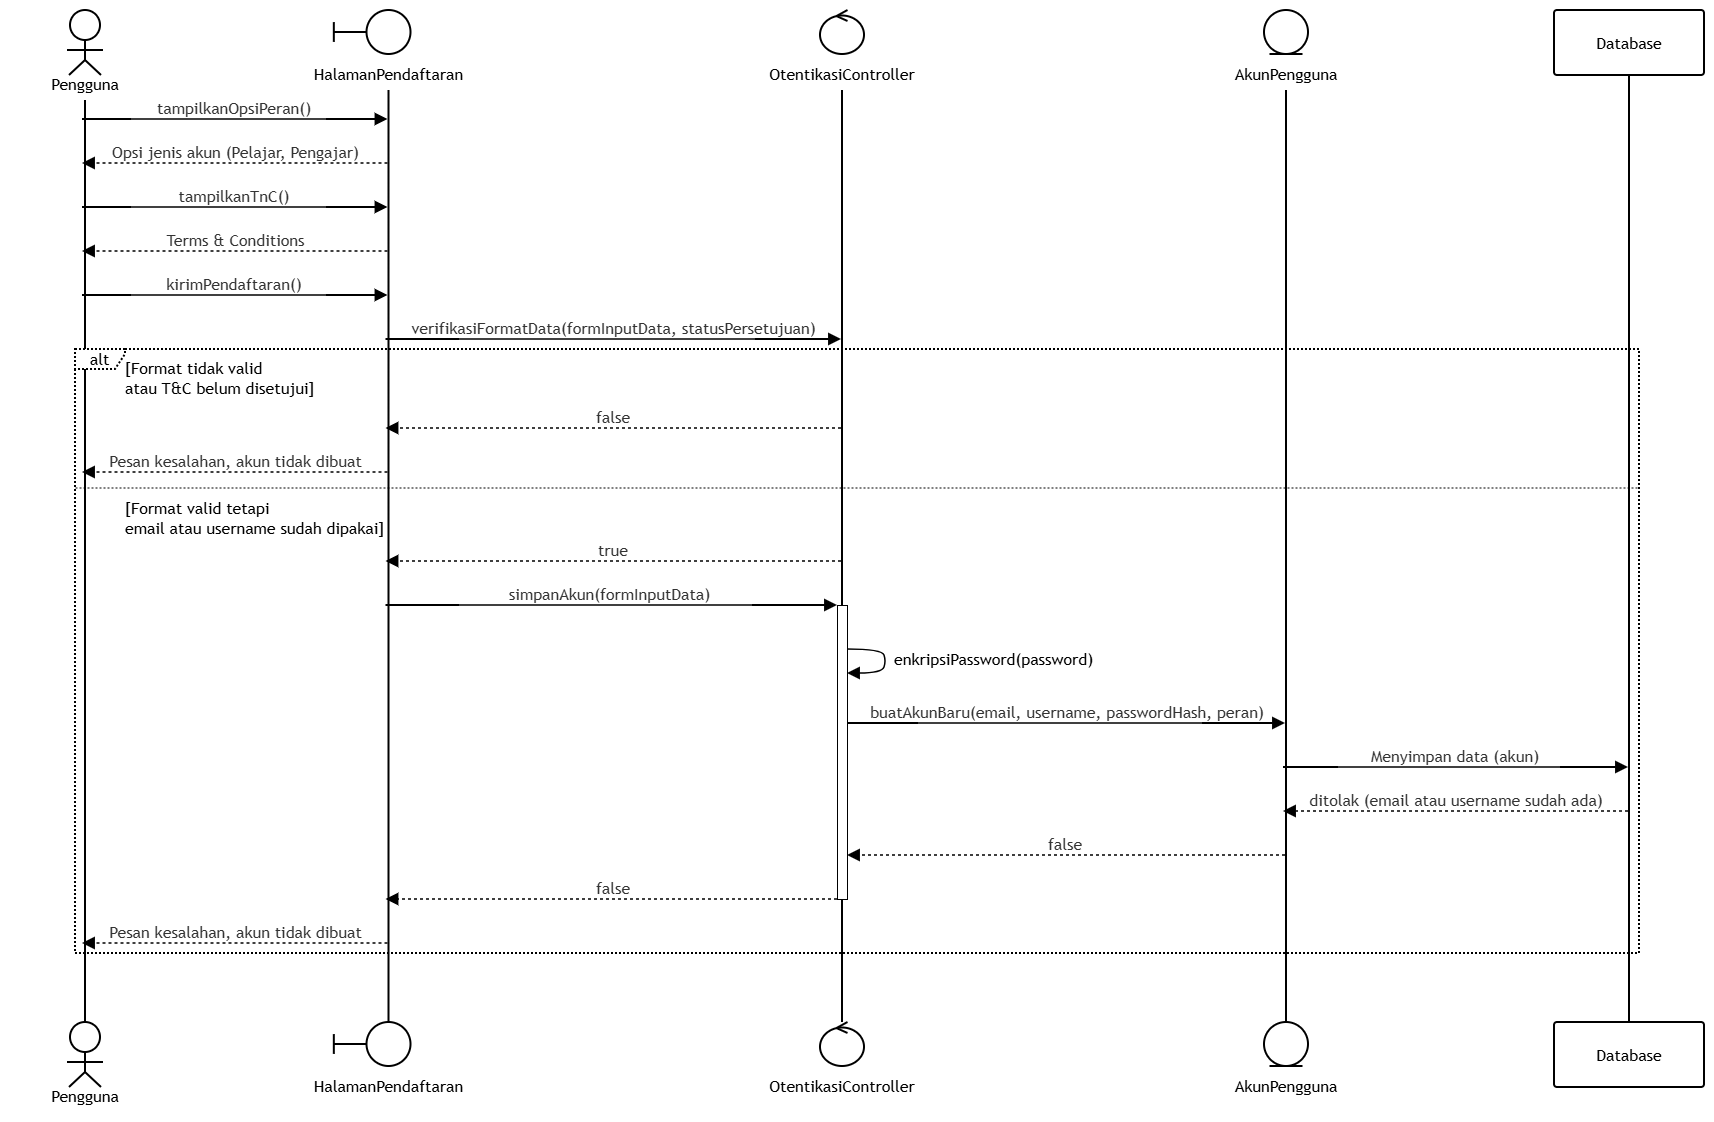
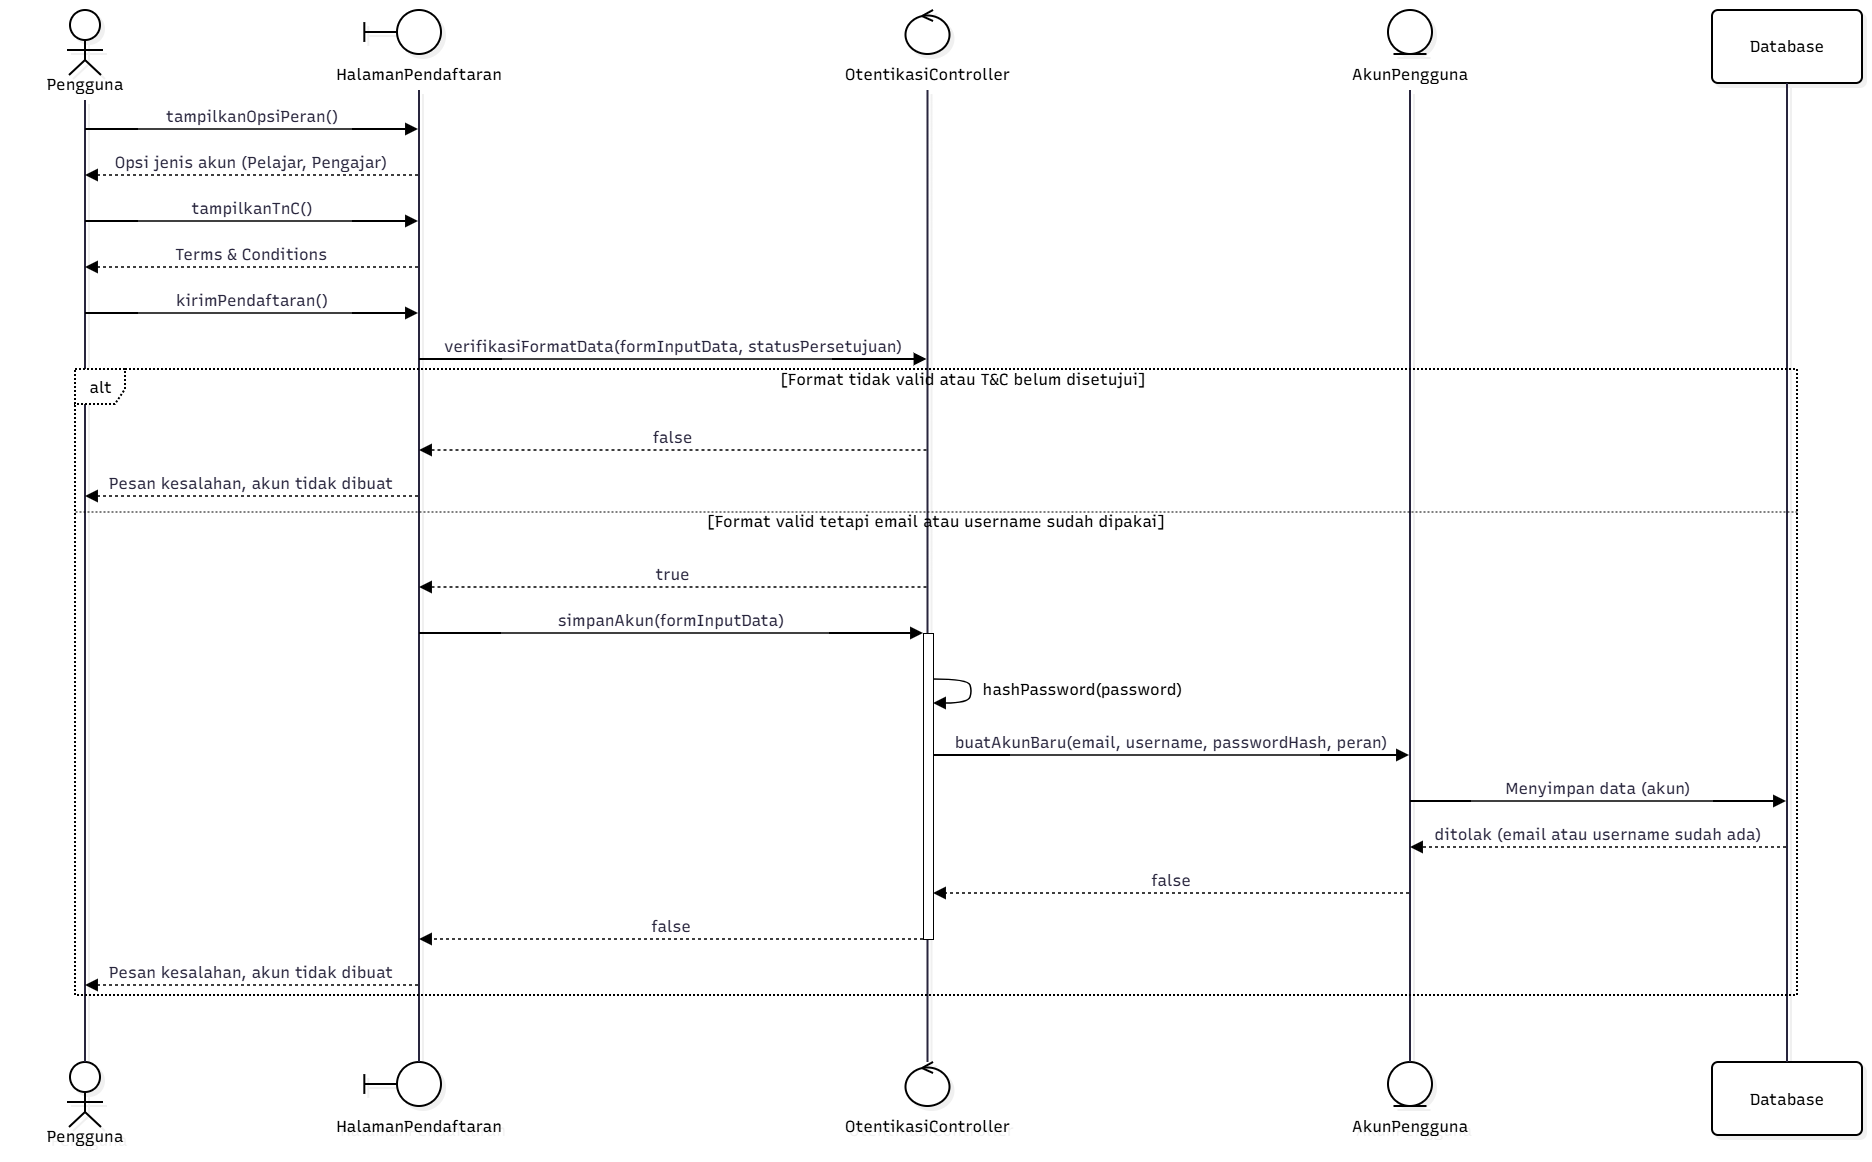
docs: revisi sampul dan diagram uc01

diff --git a/docs/M8/K02_G04_DPPL2.md b/docs/M8/K02_G04_DPPL2.md
@@ -1,7 +1,7 @@
 <h1>
 IF2150 REKAYASA PERANGKAT LUNAK
 <br>
-TUGAS 5
+TUGAS 8
 <br>
 DESKRIPSI PERANCANGAN PERANGKAT LUNAK (DPPL)
 </h1>
@@ -10,7 +10,7 @@ DESKRIPSI PERANCANGAN PERANGKAT LUNAK (DPPL)
 ## Ngaksara
 
 <p align="center">
-<img alt="Penerapan Arsitektur MVC pada Ngaksara" src="./assets/diagram/LOGO.png" width="40%">
+<img alt="Logo Ngaksara" src="./assets/diagram/LOGO.png" width="40%">
 </p>
 
 ### Untuk: Amanda Aurellia Salsabilla
